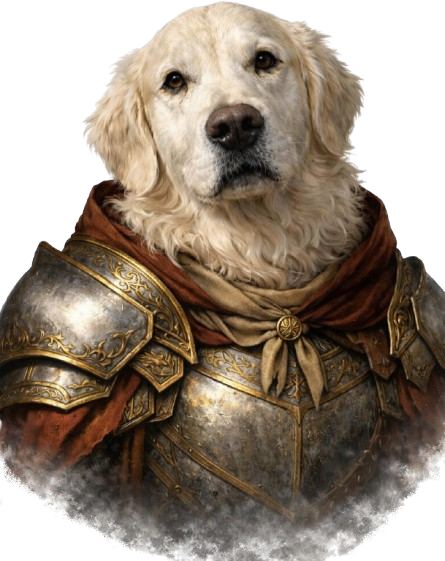
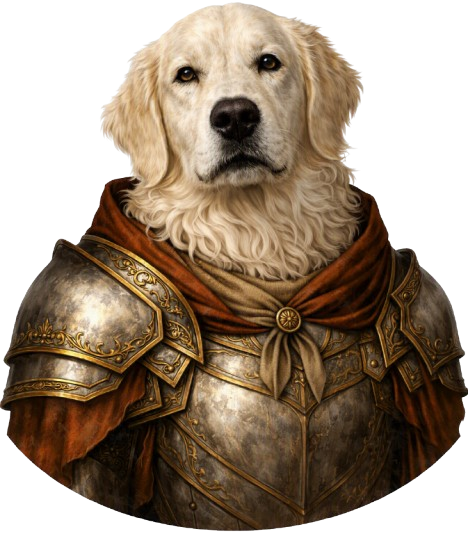
Rajout image portrait et responsive

diff --git a/src/routes/chronique/+page.svelte b/src/routes/chronique/+page.svelte
@@ -89,8 +89,8 @@
 
   <main class="main-container" style="max-width: 1300px; margin: 0 auto;">
     
-    <!-- VERSION DESKTOP : Onglets classiques côte à côte -->
-    <div class="desktop-tabs" style="display: flex; justify-content: center; gap: 15px; margin-bottom: 30px; width: 100%;">
+    <!-- VERSION DESKTOP : Onglets classiques côte à côte (Style géré dans <style>) -->
+    <div class="desktop-tabs">
       {#each tabsList as tab}
         <button class:active={activeTab === tab.id} onclick={() => switchTab(tab.id)}>
           {tab.label}
@@ -160,11 +160,20 @@
 
 .section-banner { display: block; width: 100%; max-height: 70px; object-fit: contain; margin-bottom: 25px; }
 
-/* Desktop Tabs */
+/* Desktop Tabs par défaut */
+.desktop-tabs {
+  display: flex;
+  justify-content: center;
+  gap: 15px;
+  margin-bottom: 30px;
+  width: 100%;
+}
+
 .desktop-tabs button { background: linear-gradient(to bottom, #e1c699, #c8a268); border: 2px solid #8b4513; border-radius: 8px; padding: 12px 30px; font-family: 'Crimson Text', serif; color: #5a3728; font-weight: bold; font-size: 1.1rem; cursor: pointer; box-shadow: 0 4px 6px rgba(0,0,0,0.15); transition: all 0.2s; }
 .desktop-tabs button:hover { background: linear-gradient(to bottom, #d2b48c, #b8860b); transform: translateY(-2px); }
 .desktop-tabs button.active { background: linear-gradient(to bottom, #8b4513, #5a3728); color: #fff; border-color: #ffd700; box-shadow: inset 0 2px 4px rgba(0,0,0,0.3); }
 
+/* Caché par défaut sur grand écran */
 .mobile-filter-slider { display: none; }
 
 .loading-text { text-align: center; font-family: 'Crimson Text', serif; font-size: 1.2rem; color: #5a3728; padding: 20px; }
@@ -201,15 +210,17 @@
   .main-banniere { max-width: 100%; }
   .section-banner { max-height: 35px; margin-bottom: 12px; }
 
-  .desktop-tabs { display: none; }
+  /* CACHE LES ONGLETS DESKTOP SUR MOBILE */
+  .desktop-tabs { display: none !important; }
 
+  /* AFFICHE LE SLIDER MOBILE AVEC LES FLÈCHES */
   .mobile-filter-slider { display: flex; align-items: center; justify-content: center; gap: 6px; margin-bottom: 15px; width: 100%; }
 
   .current-filter-display { background: linear-gradient(to bottom, #8b4513, #5a3728); border: 1.5px solid #ffd700; border-radius: 6px; padding: 6px 10px; text-align: center; cursor: pointer; box-shadow: 0 2px 4px rgba(0,0,0,0.3); flex-grow: 1; }
 
-  .filter-text { font-size: 0.9rem; }
+  .filter-text { font-size: 0.9rem; color: #f4e4bc; font-family: 'Crimson Text', serif; font-weight: bold; }
 
-  .slider-arrow { width: 32px; height: 32px; font-size: 1rem; border-width: 1.5px; border-radius: 6px; }
+  .slider-arrow { background: linear-gradient(to bottom, #e1c699, #c8a268); color: #5a3728; width: 32px; height: 32px; font-size: 1rem; border: 1.5px solid #8b4513; border-radius: 6px; cursor: pointer; display: flex; align-items: center; justify-content: center; }
   
   .events-list { gap: 10px; }
 

diff --git a/src/routes/regles/+page.svelte b/src/routes/regles/+page.svelte
@@ -163,27 +163,13 @@
         background-repeat: no-repeat;
     }
 
-    /* Style du lien de retour */
-    .btn-retour-texte {
-        position: absolute;
-        top: 20px;
-        left: 20px;
-        z-index: 10;
-        font-family: 'MedievalSharp', cursive;
-        font-size: 1.5rem;
-        color: #ffd700;
-        text-decoration: none;
-        text-shadow: 2px 2px 4px rgba(0, 0, 0, 0.8);
-        transition: transform 0.2s, color 0.2s;
-    }
-    
-    .btn-retour-texte:hover {
-        transform: scale(1.05);
-        color: #fff;
-    }
 
     .image-titre { margin-bottom: 10px; }
-    .image-titre img { max-width: 800px; height: auto; }
+    .image-titre img { 
+        width: 100%;
+        max-width: 800px;
+        height: auto;
+    }
 
     .header img { width: 300px; margin-bottom: 30px; }
 
